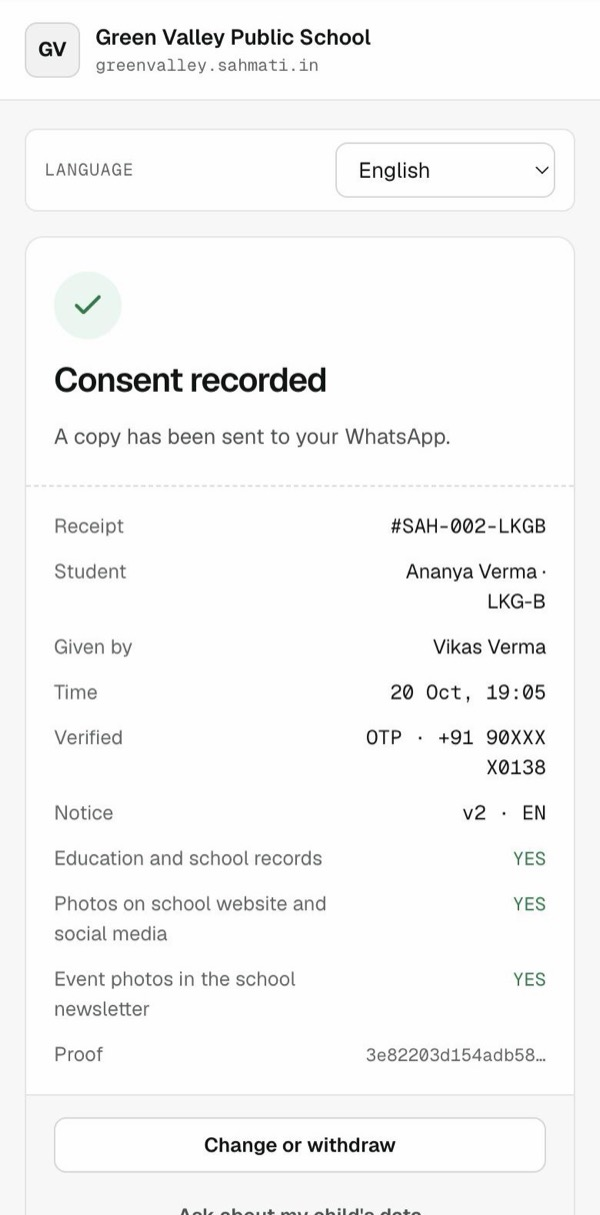
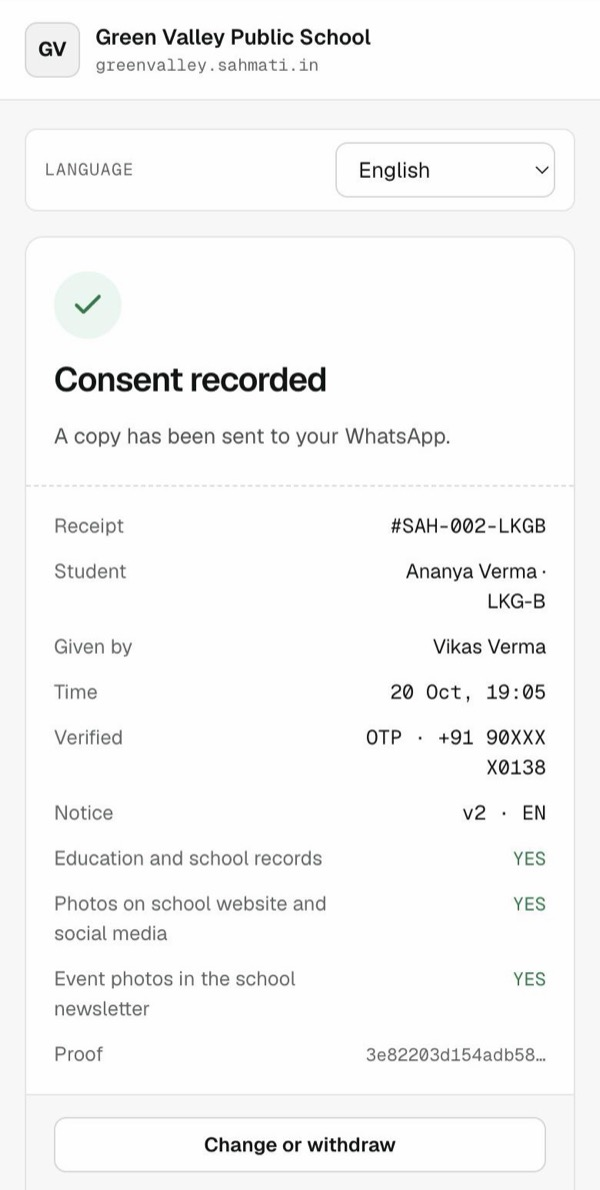
Parent walkthrough: end the receipt screen cleanly
Crop the receipt just after the Change or withdraw button so no half line
sits under the home bar, and fade the bottom edge of every screen.

diff --git a/src/components/ParentSteps.tsx b/src/components/ParentSteps.tsx
@@ -79,7 +79,8 @@ function Phone({ active }: { active: number }) {
             <div key={s.title} className={`ps-slide absolute inset-x-0 bottom-0 ${i === 0 ? "top-0" : "top-[25px] px-1.5 pt-1"} ${i === active ? "ps-slide-on" : i < active ? "ps-slide-past" : ""}`} aria-hidden={i !== active}>
               <div className={`relative h-full ${s.shot ? "mx-auto w-fit max-w-full" : ""}`}>
                 {s.shot
-                  ? <img src={img(s.shot)} alt={s.alt} width={600} height={1246} loading="lazy" decoding="async" className="block h-full w-auto max-w-full object-contain object-top" />
+                  ? <><img src={img(s.shot)} alt={s.alt} width={600} height={1246} loading="lazy" decoding="async" className="block h-full w-auto max-w-full object-contain object-top" />
+                  <span className="pointer-events-none absolute inset-x-0 bottom-0 h-6 bg-gradient-to-t from-canvas to-transparent" aria-hidden /></>
                   : <div role="img" aria-label={s.alt} className="h-full"><WhatsAppScreen /></div>}
                 {s.tap && i === active && <span key={`tap-${active}`} className="ps-tap" style={{ left: `${s.tap.x}%`, top: `${s.tap.y}%` }} aria-hidden />}
               </div>
